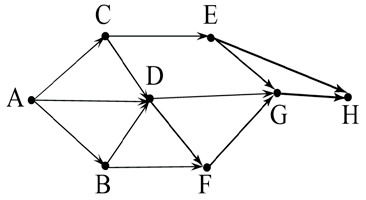
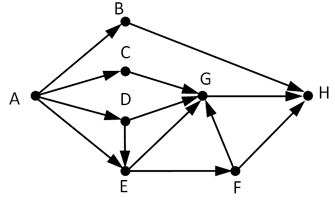
fix variant stats bug

diff --git a/code/ui/left_tab/tabs/variant/variant_vbox.py b/code/ui/left_tab/tabs/variant/variant_vbox.py
@@ -28,12 +28,11 @@ class VariantVBox(QVBoxLayout):
         self.true_answers = {}
         self.answers = {i: {'answer': '', 'time': 0, 'is_correct': False} for i in range(1, 11)}
         
-
         self.lines = {}
         self.timer = None
 
-        
         self.start_screen()
+
 
     def cr_all(self):
         self.clear(self)
@@ -48,15 +47,14 @@ class VariantVBox(QVBoxLayout):
 
         with open("variant_time_avg.json", "r", encoding="utf-8") as file:
             data = json.load(file)
-            print(data)
 
-        chart_widget = TimeStatsWidget(data)
+        chart_widget = TimeStatsWidget(data, 'all')
         self.addWidget(chart_widget)
-
 
         btn = QPushButton('начать решать вариант')
         btn.clicked.connect(self.cr_all)
         self.addWidget(btn)
+
 
     def update_label(self):
         self.cnt += 1
@@ -73,22 +71,18 @@ class VariantVBox(QVBoxLayout):
             self.timer = QTimer(self)
             # Подключаем функцию к сигналу timeout
             self.timer.timeout.connect(self.update_label)
-            print('-------------')
+            # print('not timer')
             
 
         # Запускаем с интервалом 1000 мс (1 секунда)
         self.timer.start(1000)
-        print('start#########################', self.timer)
-
-        
-
+        # print('start#########################', self.timer)
 
 
     def cr_btn_end(self):
         btn = QPushButton('завершить вариант')
         btn.clicked.connect(self.end_var)
         self.addWidget(btn)
-
 
 
     def cr_var(self):
@@ -101,7 +95,6 @@ class VariantVBox(QVBoxLayout):
 
         self.true_answers[task_id] = task['answer']
         print(task['id'], 'true answer:', self.true_answers[task_id])
-
 
         v_box = QVBoxLayout()
 
@@ -116,7 +109,6 @@ class VariantVBox(QVBoxLayout):
 
         condition_widget.setWordWrap(True) # Текст будет переноситься, увеличивая высоту метки
         v_box.addWidget(condition_widget)
-
 
         if '<img src=' in condition:
             b = condition.find('\"')
@@ -151,8 +143,6 @@ class VariantVBox(QVBoxLayout):
                 lablel = QLabel('Не удалось скачать фото')
                 v_box.addWidget(lablel)
 
-
-
         h_box = QHBoxLayout()
 
         self.lines[task_id] = QLineEdit()
@@ -161,15 +151,8 @@ class VariantVBox(QVBoxLayout):
 
         self.lines[task_id].returnPressed.connect(lambda: self.handle_enter(task_id))
 
-        
-
-
         v_box.addLayout(h_box)
         self.addLayout(v_box)
-        print('add')
-
-
-
     
 
     def handle_enter(self, task_id):
@@ -182,42 +165,60 @@ class VariantVBox(QVBoxLayout):
             self.answers[task_id]['is_correct'] = True
             self.answers[task_id]['time'] = self.cnt
             print('good answer')
-
-
         else:
             self.answers[task_id]['answer'] = text
             self.answers[task_id]['is_correct'] = False
             self.answers[task_id]['time'] = self.cnt
             print('wrong answer')
 
+
     def upstats(self):
-        # Чтение из файла в словарь
         with open("variant_time_avg.json", "r", encoding="utf-8") as file:
-            data = json.load(file)
-            # print(file_data)
+            data_time = json.load(file)
+
+        with open("variant_stats_avg.json", "r", encoding="utf-8") as file:
+            data_stats = json.load(file)
 
         for key in self.answers.keys():
-            data[f'stats_{key}'] = data['cnt'] + 1 if self.answers[key]['is_correct'] else data['cnt']
-            data[key] = {
-            'time': str((int(data[str(key)]['time']) + self.answers[key]['time']) // data['cnt']),
-            'is_correct': True if data[f'stats_{key}'] > data['cnt'] else False,
+            if self.answers[key]['is_correct']:
+                data_stats[f'stats_{key}'] = data_stats['cnt'] + 1  
+            else:
+                data_stats[f'stats_{key}'] = data_stats['cnt']
+
+            ans_time = (self.answers[key]['time'] - self.answers[key - 1]['time'] if key != 1 else self.answers[key]['time'])
+
+            data_time[key] = {
+            'time': (int(data_time[str(key)]['time']) + ans_time) // data_stats['cnt'],
+            'is_correct': True if data_stats[f'stats_{key}'] > data_stats['cnt'] else False,
             }
-        data['cnt'] += 1
-
-
-
-        # data = {
-        #     key: {
-        #     'time': str(self.answers[key]['time']),
-        #     'is_correct': self.answers[key]['is_correct'],
-        #     }
-        #     for key in self.answers.keys()
-        #     }
-        # data['cnt'] = 1
-
 
         with open("variant_time_avg.json", "w", encoding="utf-8") as file:
-            json.dump(data, file, ensure_ascii=False, indent=4)
+            json.dump(data_time, file, ensure_ascii=False, indent=4)
+
+        with open("variant_stats_avg.json", "w", encoding="utf-8") as file:
+            json.dump(data_stats, file, ensure_ascii=False, indent=4)
+
+
+    def cr_stats(self):
+        data_time = {
+            key: {
+            'time': self.answers[key]['time'],
+            'is_correct': self.answers[key]['is_correct'],
+            }
+            for key in self.answers.keys()
+            }
+
+        data_stats = {
+            f'stats_{key}': 0
+            for key in self.answers.keys()
+            }
+        data_stats['cnt'] = 1
+
+        with open("variant_time_avg.json", "w", encoding="utf-8") as file:
+            json.dump(data_time, file, ensure_ascii=False, indent=4)
+
+        with open("variant_stats_avg.json", "w", encoding="utf-8") as file:
+            json.dump(data_stats, file, ensure_ascii=False, indent=4)
 
 
     def end_var(self):
@@ -225,14 +226,13 @@ class VariantVBox(QVBoxLayout):
         # pprint(self.answers, indent=4)
 
         self.upstats()
+        # self.cr_stats()
 
         scroll_area = QScrollArea()
         scroll_area.setWidgetResizable(True) # Важно: позволяет содержимому адаптироваться
 
         container = QWidget()
         layout = QVBoxLayout(container)
-
-
 
         s = f'{self.answers}'
         s += f'\n{self.true_answers}'
@@ -252,7 +252,7 @@ class VariantVBox(QVBoxLayout):
             for key in self.answers.keys()
             }
 
-        chart_widget = TimeStatsWidget(ans)
+        chart_widget = TimeStatsWidget(ans, 'one')
         layout.addWidget(chart_widget)
 
         btn = QPushButton('закончить')
@@ -266,8 +266,6 @@ class VariantVBox(QVBoxLayout):
 
         # 5. Устанавливаем QScrollArea как главный виджет окна
         self.addWidget(scroll_area)
-
-
 
 
     def clear(self, layout):
@@ -284,8 +282,3 @@ class VariantVBox(QVBoxLayout):
             elif item.layout():
                 # Если это вложенный макет — вызываем эту же функцию для него
                 self.clear(item.layout())
-
-
-
-    
-  

diff --git a/code/ui/left_tab/tabs/variant/stats_variant_upp.py b/code/ui/left_tab/tabs/variant/stats_variant_upp.py
@@ -7,32 +7,31 @@ from PySide6.QtGui import QPainter, QColor
 from PySide6.QtWidgets import QSizePolicy # Не забудь добавить в импорт
 
 class TimeStatsWidget(QWidget):
-    def __init__(self, data_dict):
-        """
-        :param data_dict: Словарь вида {1: {'time': 45, 'is_correct': True}, ...}
-        """
+    def __init__(self, data_dict, typee):
         super().__init__()
-        self.data = data_dict
+        self.data = data_dict # :param data_dict: Словарь вида {1: {'time': 45, 'is_correct': True}, ...}
+        self.type = typee
         self.layout = QVBoxLayout(self)
         self.setup_ui()
+
 
     def setup_ui(self):
         self.setSizePolicy(QSizePolicy.Expanding, QSizePolicy.Expanding)
         # Заголовок
-        header = QLabel("Время выполнения заданий")
+        header = QLabel("Время выполнения заданий" if self.type == 'one' else'Среднее время выполнения заданий')
         header.setStyleSheet("font-size: 18px; font-weight: bold; margin-bottom: 10px;")
         self.layout.addWidget(header)
 
         # Создаем график
         self.chart = QChart()
-        self.chart.setTitle("Зеленый — верно, Красный — ошибка")
+        # self.chart.setTitle("Зеленый — верно, Красный — ошибка")
         self.chart.setAnimationOptions(QChart.SeriesAnimations)
 
         # Создаем два набора данных для разных цветов
-        set_correct = QBarSet("Верно")
+        set_correct = QBarSet("Верно" if self.type == 'one' else'Преобладание правельных ответов')
         set_correct.setColor(QColor("#2ecc71")) # Зеленый
         
-        set_incorrect = QBarSet("Неверно")
+        set_incorrect = QBarSet("Неверно" if self.type == 'one' else'Преобладание неправельных ответов')
         set_incorrect.setColor(QColor("#e74c3c")) # Красный
 
         categories = []